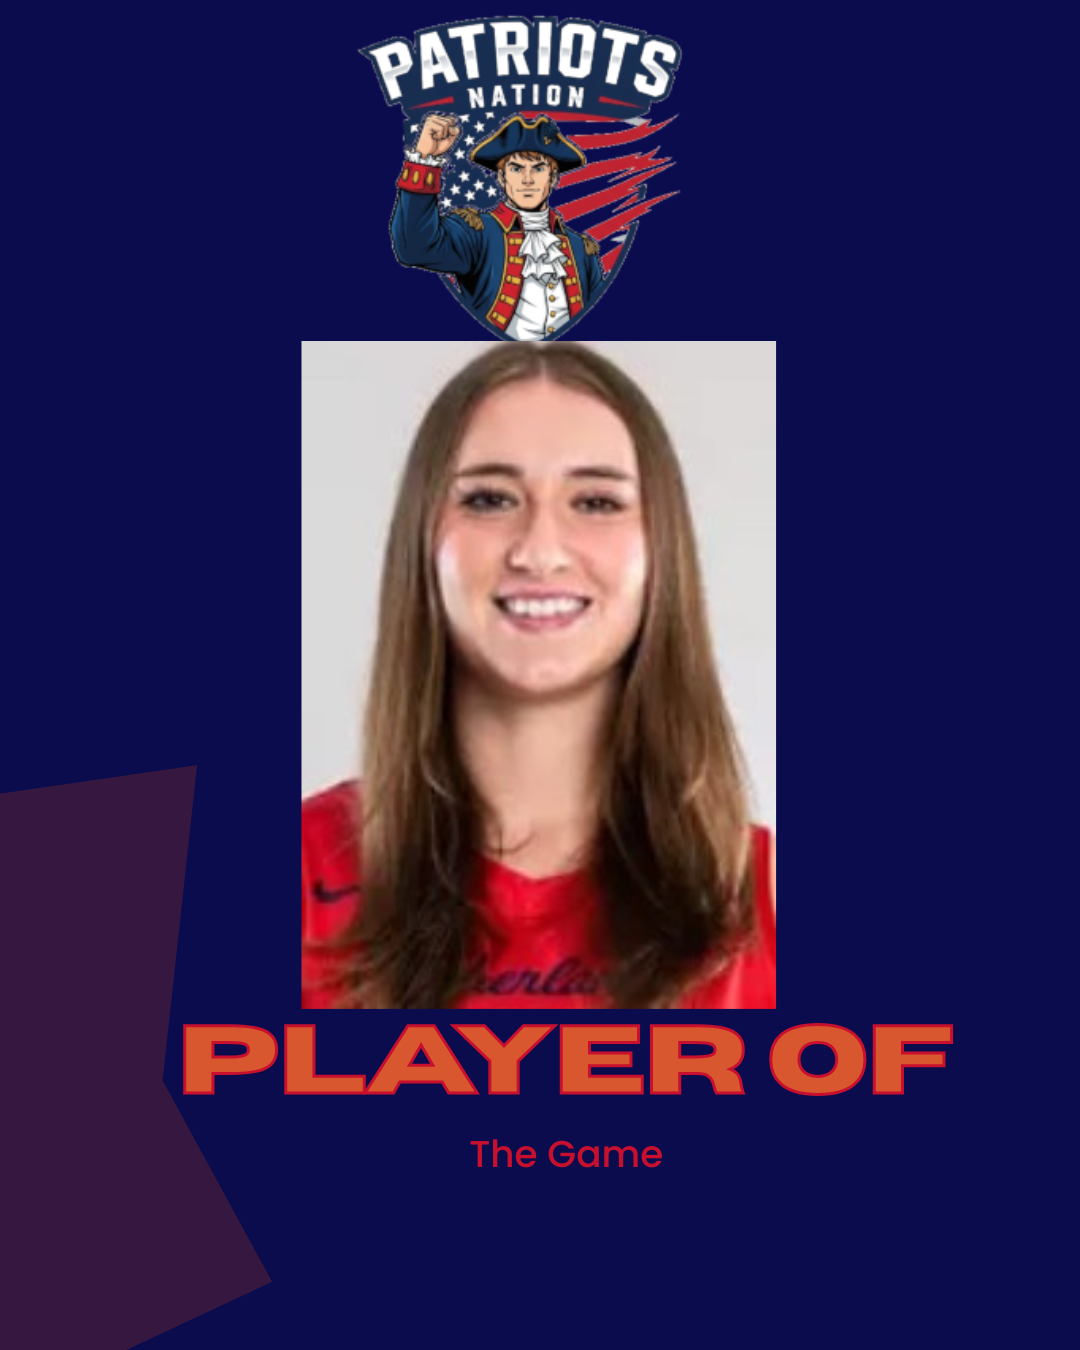
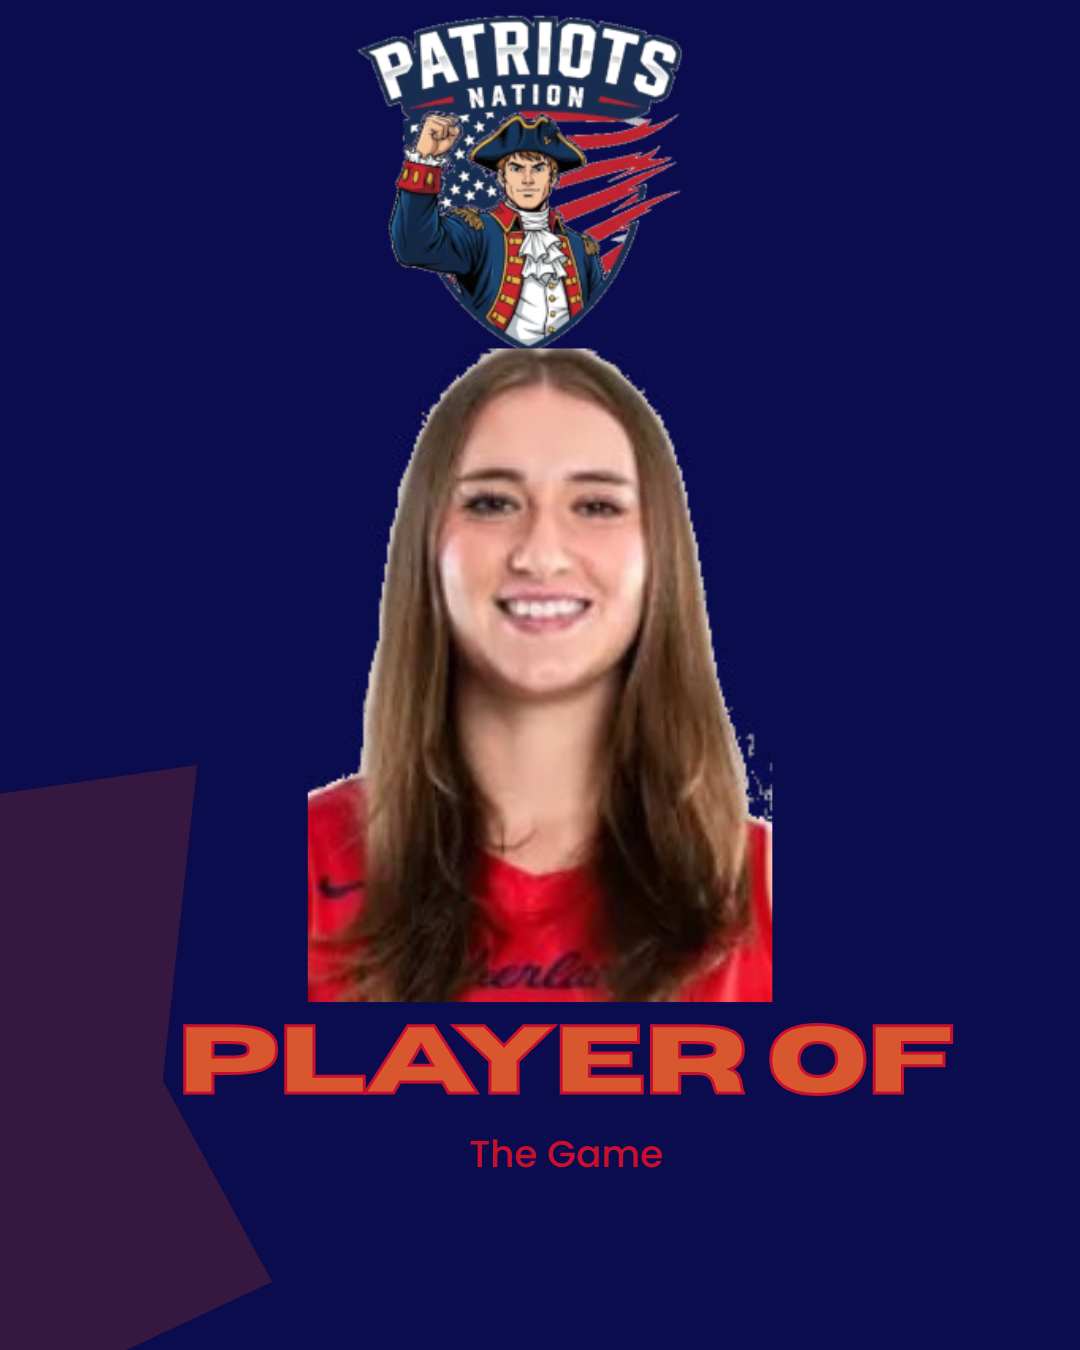
Add 2025-09-23 sports recap post and related images
Added a new blog post covering the Patriots' dominant performances in golf, women's soccer, volleyball, and men's soccer on 2025-09-23. Included new and updated images for match day graphics, final scores, player highlights, and team logos.

Changed region(s): [[0.275, 0.2489, 0.7333, 0.7467], [0.4583, 0.6222, 0.5194, 0.6533], [0.4278, 0.6533, 0.4583, 0.6844]]

diff --git a/_posts/2025-09-23-All-We-Do-Is-Dominate.md b/_posts/2025-09-23-All-We-Do-Is-Dominate.md
@@ -1,0 +1,108 @@
+---
+layout: post
+title: "All The Patriots Do Is Dominate"
+date: 2025-09-23
+author: Admin
+image: /images/2025-09-23-vb.jpg
+image_credit: "Photo from University of the Cumberlands"
+---
+
+The Patriots turned around from a rough weekend and took some anger out on their rivals. From the links to pitch to the court the Patriots **DOMINATED** their opponents today. From a hole-in-one to a 12 goal performance on the pitch to another sweep from the volleyball program to a shutout on the pitch to finish the night.
+
+## Golf Rocked The Links
+
+Both Men's and Women's golf teams won their competitions at the East Tennessee Collegiate Tournament. The highlight was a hole-in-one completed by **Saran Jantratit** and **Ainslee Cruce** who missed the program record by three strokes.
+
+## Next Up For The Winners Was The Ladies Soccer team
+
+### First Half: Patriots Establish Dominance (4-0)
+The Patriots controlled the match from the start, registering multiple shots and a corner kick within the first five minutes. The scoring opened at the 7-minute mark when **Laura Bosca** netted a goal off an assist from Lucia Domingo Porcel. Just a few minutes later, the lead was doubled to 2-0 by **Juliette Charriez**.
+
+At 16:07, **Tori Robertson** scored her first career collegiate goal off a cross from Evelyn Saldivar. Robertson wasn't done, as she scored an unassisted goal at 31:50 after dispossessing a defender to give the Patriots a comfortable 4-0 lead heading into halftime.
+
+### Second Half: An Offensive Explosion (8-0)
+The Patriots continued their offensive onslaught in the second half. **Kayah Robbins** scored her first collegiate goal just five minutes into the period. The floodgates opened from there, with goals from **Juana Fernandez Calvo** and **Abigail Little** pushing the score to 7-0 by the 58th minute. Cumberlands added five more goals in the remainder of the half, with Robertson and Fernandez Calvo completing their hat tricks, Little securing her brace, and **Carola Fontan** adding a goal to her impressive three-assist night.
+
+---
+
+### Scoring Timeline
+*   **7:16'** - **Goal (CUM):** Laura Bosca, assisted by Lucia Domingo Porcel. (1-0)
+*   **11:50'** - **Goal (CUM):** Juliette Charriez, assisted by Samantha Sokolove. (2-0)
+*   **16:07'** - **Goal (CUM):** Tori Robertson, assisted by Evelyn Saldivar. (3-0)
+*   **31:50'** - **Goal (CUM):** Tori Robertson, unassisted. (4-0)
+*   **49:54'** - **Goal (CUM):** Kayah Robbins, unassisted. (5-0)
+*   **52:37'** - **Goal (CUM):** Juana Fernandez Calvo, assisted by Camryn Broz. (6-0)
+*   **58:02'** - **Goal (CUM):** Abigail Little, assisted by Carola Fontan. (7-0)
+*   **65:02'** - **Goal (CUM):** Juana Fernandez Calvo, assisted by Carola Fontan. (8-0)
+*   **76:32'** - **Goal (CUM):** Abigail Little, unassisted. (9-0)
+*   **80:40'** - **Goal (CUM):** Tori Robertson, unassisted. (10-0)
+*   **83:03'** - **Goal (CUM):** Carola Fontan, assisted by Ines Martin. (11-0)
+*   **87:24'** - **Goal (CUM):** Juana Fernandez Calvo, assisted by Carola Fontan. (12-0)
+
+---
+
+### Key Performers & Milestones
+*   **Tori Robertson:** Scored her first collegiate goal and went on to complete her first career hat trick.
+*   **Juana Fernandez Calvo:** Recorded her first hat trick as a Patriot.
+*   **Abigail Little:** Netted a brace (two goals).
+*   **Carola Fontan:** Contributed a goal and three assists, tying the program record for second in career assists (33).
+*   **Kayah Robbins:** Scored her first collegiate goal.
+
+### Match Statistics
+*   **Shots:** Cumberlands 33 - 1 Georgetown
+*   **Corner Kicks:** Cumberlands 12 - 1 Georgetown
+
+### Up Next
+*   The Patriots return to the pitch on **Tuesday, September 30th**, to host the defending NAIA champions, the #9 ranked SCAD Bees.
+*   **Kickoff:** 4:30 p.m.
+
+## Between the Soccer Sandwich was the Volleyball Team
+
+### Set-by-Set Breakdown
+
+**Set 1: Cumberlands Pulls Away Late (25-20)**
+The opening set was a back-and-forth battle, featuring 11 ties and six lead changes. With the score knotted at 19-19, the Patriots seized control, launching a decisive **6-1 run** to close out the set. The run was powered by back-to-back kills from **Sara Zampedri** and a key block by **Kara Gipson**.
+
+**Set 2: Patriots Take Control (25-18)**
+Cumberlands set the tone early, jumping out to a quick 8-3 lead. While the Blue Raiders fought back to narrow the gap to 14-12, the Patriots responded with another 5-1 spurt to regain a comfortable lead. Hitting an efficient .222 in the set, UC's offense proved too much, and a kill from **Alana Shiery** secured the 2-0 match advantage.
+
+**Set 3: A Dramatic Clincher (26-24)**
+The final set was the most intense of the night, with neither team building a lead of more than three points. Lindsey Wilson reached set point at 24-23, threatening to extend the match. However, the Patriots showed their composure:
+1.  A clutch kill from **Sara Zampedri** tied the score at 24-24.
+2.  **Brynnley Bryant** followed with another kill to give UC match point.
+3.  A combined block from **Kara Gipson** and **Elaina Fischer** sealed the sweep with a dramatic 26-24 victory and a court rush from the Patriots faithful.
+
+---
+
+### Key Performers & Highlights
+
+*   **Savanah Jolly (Setter):** A phenomenal all-around performance with **32 assists**, **6 kills** on .545 hitting, and a massive, season-high **24 digs**.
+*   **Sara Zampedri (Outside Hitter):** Led the offense with a team-high **15 kills** and **16.5 points**.
+*   **Brynnley Bryant (Outside Hitter):** Contributed **10 kills** and **9 digs**.
+*   **Kara Gipson (Middle Blocker):** Anchored the net defense with **3 blocks** and added **6 kills**.
+*   **Team Defense:** The Patriots tallied an impressive **69 digs** and **8 blocks** as a team.
+
+### Up Next
+The Patriots will have a week off before hitting the road to continue conference play against **Georgetown College** on **Tuesday, September 30th**. The match is scheduled for 7 p.m. ET.
+
+## For The Night Cap We Had A Shutout
+
+### Scoring Timeline
+
+**First Half: Dolobaipu Breaks the Deadlock (1-0)**
+The match remained scoreless for much of the first half until the Patriots broke through just before the break.
+*   **39:35'** - **Goal (CUM):** Junior **Samuel Dolobaipu** found the back of the net for his fourth goal of the season, giving Cumberlands a crucial 1-0 lead heading into halftime.
+
+**Second Half: Patriots Seal the Victory (2-0)**
+Cumberlands maintained pressure in the second half, adding two more goals to put the game away.
+*   **58:41'** - **Goal (CUM):** Sophomore **Conor McVeigh** scored his first career collegiate goal, doubling the Patriots' advantage to 2-0.
+*   **85:52'** - **Goal (CUM):** Sophomore **Vanja Kopunovic** tallied his first goal as a Patriot, converting a pass from **Emil Skursch** to finalize the 3-0 scoreline.
+
+---
+
+### Defensive Dominance
+The Patriots' back line was once again impenetrable.
+*   Goalkeeper **Javiero Izquierdo Cuervo** was sharp, making **4 saves** to secure the clean sheet.
+*   The defense limited Georgetown to just **8 total shots** and did not concede a single corner kick throughout the match.
+
+With the win, the Patriots improve to **5-2-2** overall on the season.
